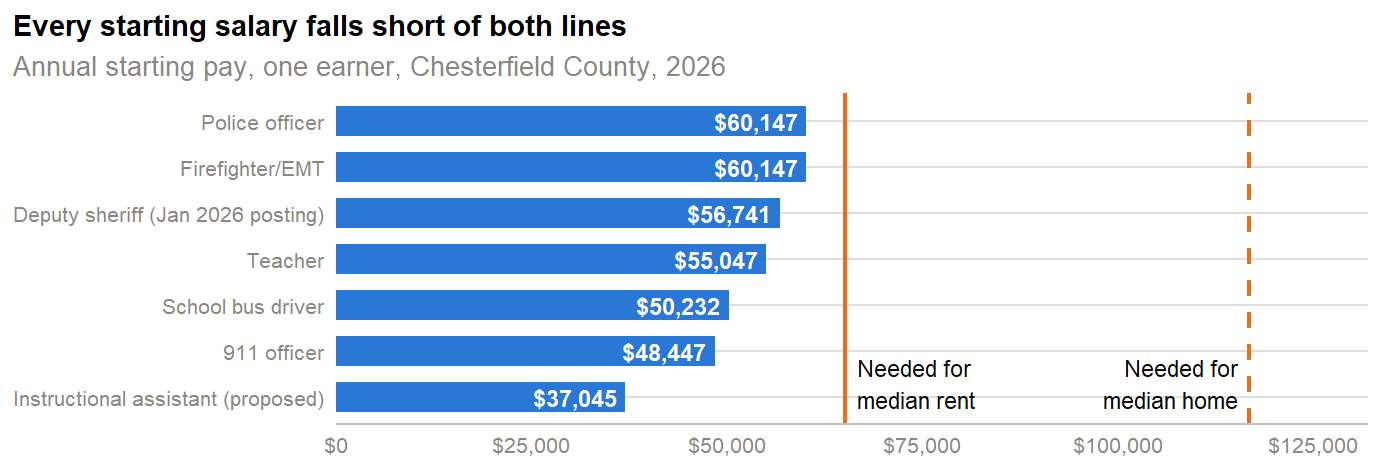
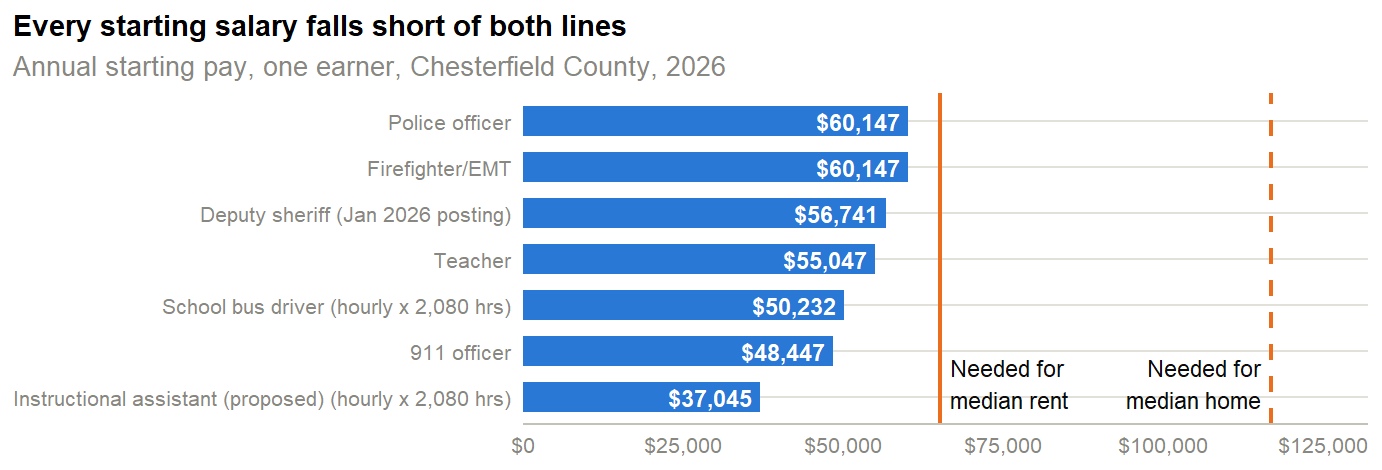
fix(chesterfield-onepager): label proposed/stale/hourly figures, check claims, source assumptions on page

diff --git a/docs/chesterfield-onepager.html b/docs/chesterfield-onepager.html
@@ -191,7 +191,7 @@ ul.task-list li input[type="checkbox"] {
 </div>
 <div class="cell" data-layout-align="left">
 <div class="cell-output-display">
-<div id="fig-pay-vs-afford" class="quarto-float quarto-figure quarto-figure-left anchored" width="100%" data-fig-align="left" alt="Horizontal bars of starting pay for seven Chesterfield public-service roles, from about $37,000 for instructional assistants to $60,147 for police officers and firefighters. A vertical line at about $65,000 marks the income needed to afford the median rent and a line near $117,000 marks the income needed for the median home; every bar falls short of both.">
+<div id="fig-pay-vs-afford" class="quarto-float quarto-figure quarto-figure-left anchored" width="100%" alt="Horizontal bars of starting pay for seven Chesterfield public-service roles, from about $37,000 for instructional assistants to $60,147 for police officers and firefighters. A vertical line at about $65,000 marks the income needed to afford the median rent and a line near $117,000 marks the income needed for the median home; every bar falls short of both." data-fig-align="left">
 <figure class="quarto-float quarto-float-fig figure">
 <div aria-describedby="fig-pay-vs-afford-caption-0ceaefa1-69ba-4598-a22c-09a6ac19f8ca">
 <img src="chesterfield-onepager_files/figure-html/fig-pay-vs-afford-1.png" id="fig-pay-vs-afford" class="img-fluid quarto-figure quarto-figure-left anchored figure-img" style="width:100.0%" alt="Horizontal bars of starting pay for seven Chesterfield public-service roles, from about $37,000 for instructional assistants to $60,147 for police officers and firefighters. A vertical line at about $65,000 marks the income needed to afford the median rent and a line near $117,000 marks the income needed for the median home; every bar falls short of both.">
@@ -231,7 +231,7 @@ Figure&nbsp;1
 <td style="text-align: right;">$188,473</td>
 </tr>
 <tr class="odd">
-<td style="text-align: left;">Deputy sheriff</td>
+<td style="text-align: left;">Deputy sheriff (Jan 2026 posting)</td>
 <td style="text-align: right;">$56,741 (Jan 2026)</td>
 <td style="text-align: right;"></td>
 <td style="text-align: right;">$1,419 (-$210)</td>
@@ -245,7 +245,7 @@ Figure&nbsp;1
 <td style="text-align: right;">$172,492</td>
 </tr>
 <tr class="odd">
-<td style="text-align: left;">School bus driver</td>
+<td style="text-align: left;">School bus driver (hourly x 2,080 hrs)</td>
 <td style="text-align: right;">$50,232 (Feb 2026)</td>
 <td style="text-align: right;">$52,229</td>
 <td style="text-align: right;">$1,256 (-$373)</td>
@@ -259,7 +259,7 @@ Figure&nbsp;1
 <td style="text-align: right;">$151,810</td>
 </tr>
 <tr class="odd">
-<td style="text-align: left;">Instructional assistant</td>
+<td style="text-align: left;">Instructional assistant (proposed) (hourly x 2,080 hrs)</td>
 <td style="text-align: right;">$37,045 (Feb 2026)</td>
 <td style="text-align: right;"></td>
 <td style="text-align: right;">$926 (-$703)</td>
@@ -287,7 +287,7 @@ How to read these figures
 </div>
 </div>
 <div class="callout-body-container callout-body">
-<p>One earner, starting pay. Affordable rent is 30% of gross income. Home price assumes a 7.11% 30-year mortgage (Freddie Mac, week of Nov 12, 2026), 5% down, the county’s $0.89 per $100 tax rate, plus insurance. Hourly pay is annualized at 2,080 hours, so school-year workers earn less. FY27 pay is proposed, not confirmed adopted. Deputy sheriff pay is from a January 2026 posting; the 911 officer figure is the class-spec minimum. Median rent and value are 2020-2024 ACS.</p>
+<p>One earner, starting pay. Affordable rent is 30% of gross income. Home price assumes a 7.11% 30-year mortgage (Freddie Mac, week of Nov 12, 2026), 5% down, the real estate tax rate in the county’s FY2027 proposed budget ($0.89 per $100), homeowners insurance at 0.35% of price and mortgage insurance at 0.7% of the loan (these last two are our assumptions). Hourly pay is annualized at 2,080 hours, so school-year workers earn less. Teacher and bus driver pay is the FY26 scale from February 2026; FY27 pay is proposed, not confirmed adopted. Deputy sheriff pay is from a January 2026 posting; the 911 officer figure is the class-spec minimum. Median rent and value are 2020-2024 ACS.</p>
 </div>
 </div>
 <div class="cell" data-layout-align="left">

diff --git a/TODO.md b/TODO.md
@@ -138,7 +138,7 @@ Why: the question is whether renters can move to ownership, so home values and r
 ## Chesterfield one-pager (2026-11-23, at the user's request)
 
 - [x] `r/chesterfield_pay.R`, `r/chesterfield_afford.R`, `chesterfield-onepager.qmd` (HTML + one-page Typst PDF), navbar entry, data-notes paragraph. Spec and plan in `design/`.
-- [ ] Confirm the adopted FY27 CCPS pay (teacher $57,277, instructional assistant $17.81/hr, bus driver $25.11/hr were *proposed* in Feb 2026); update the `status` column in `r/chesterfield_pay.R` and re-run both scripts.
+- [ ] Confirm the adopted FY27 CCPS pay (teacher $57,277, instructional assistant $17.81/hr, bus driver $25.11/hr were *proposed* in Feb 2026). If adopted: mark the old FY26 teacher and bus rows `stale`, mark the FY27 rows `current` in `r/chesterfield_pay.R` (the script now fails if a role has two `current` rows), re-run both scripts, then re-render `chesterfield-onepager.qmd`.
 - [ ] Deputy sheriff pay ($56,741) is from a January 2026 posting; re-check against the current posting or pay plan.
 - [ ] Source or replace the unsourced insurance (0.35%) and PMI (0.7%) assumptions in `r/chesterfield_afford.R`.
 - [ ] Confirm BHC has cleared its logo on the public PDF; decide whether the page needs an "ask" line (needs BHC's position).
